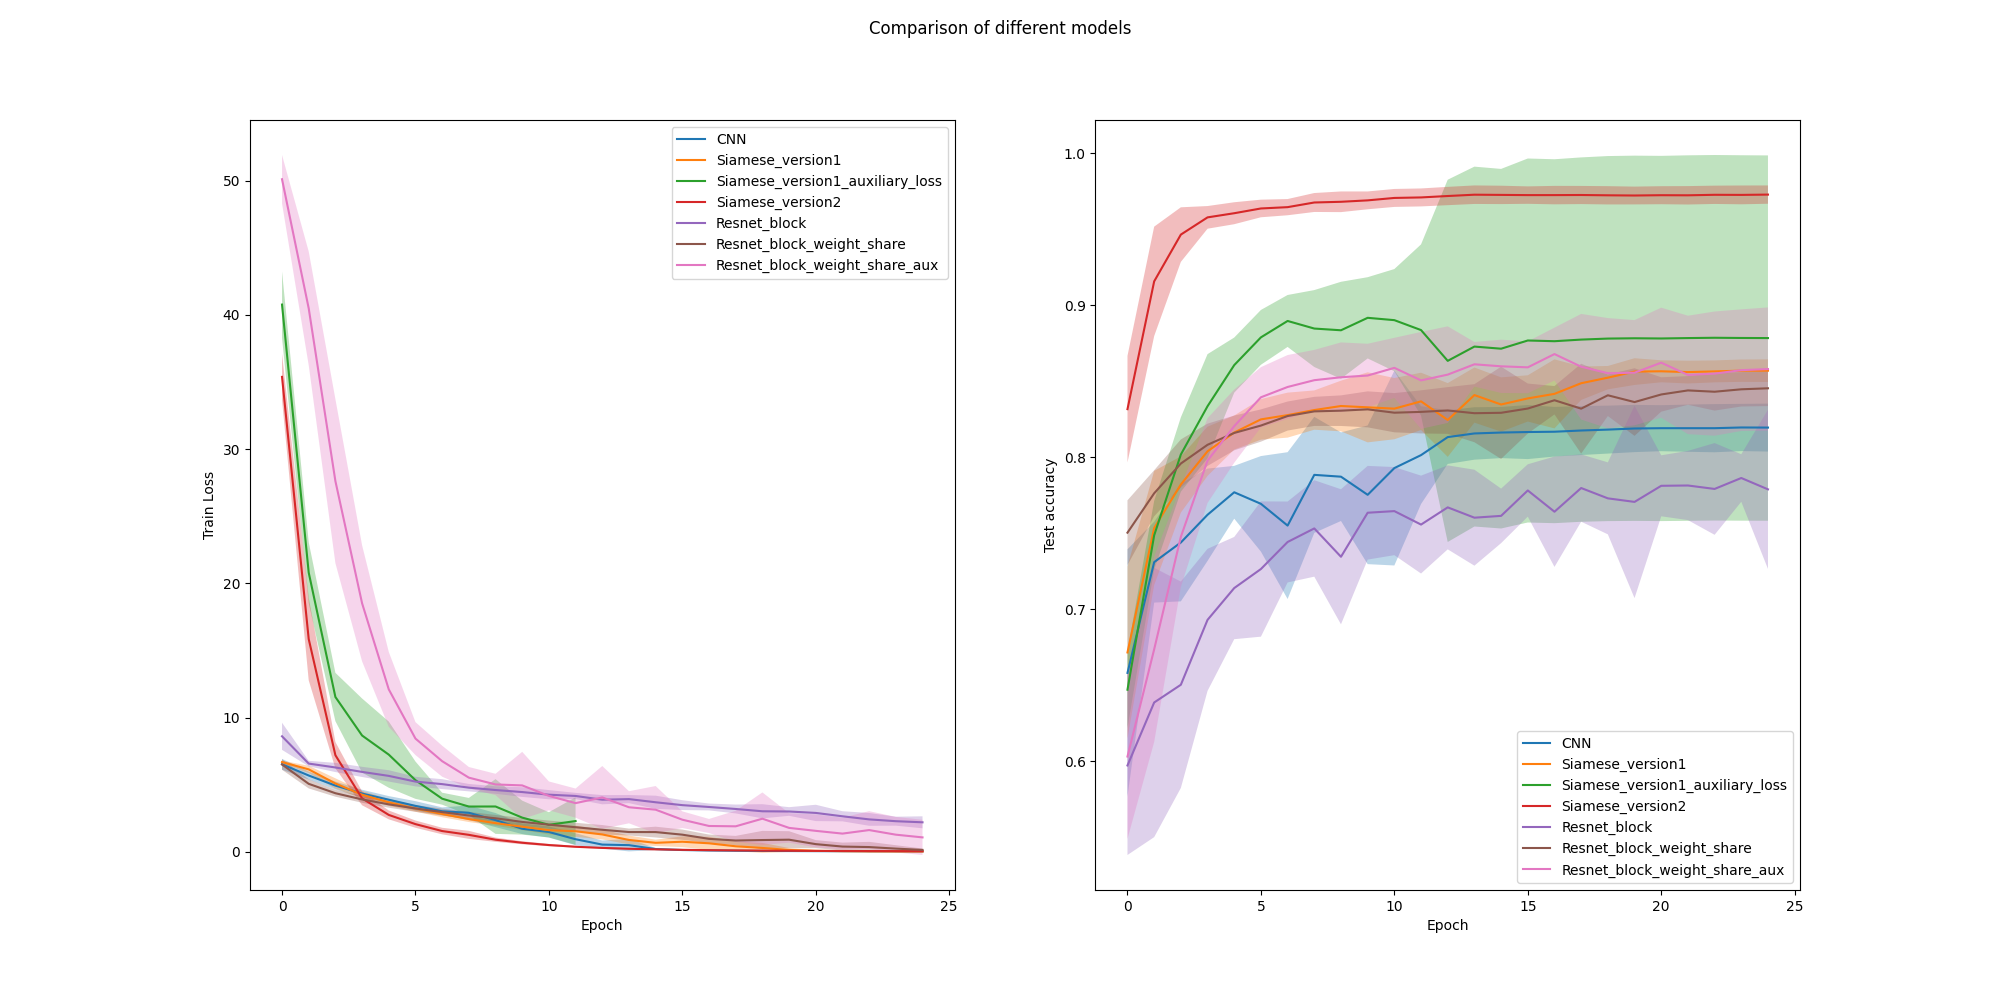
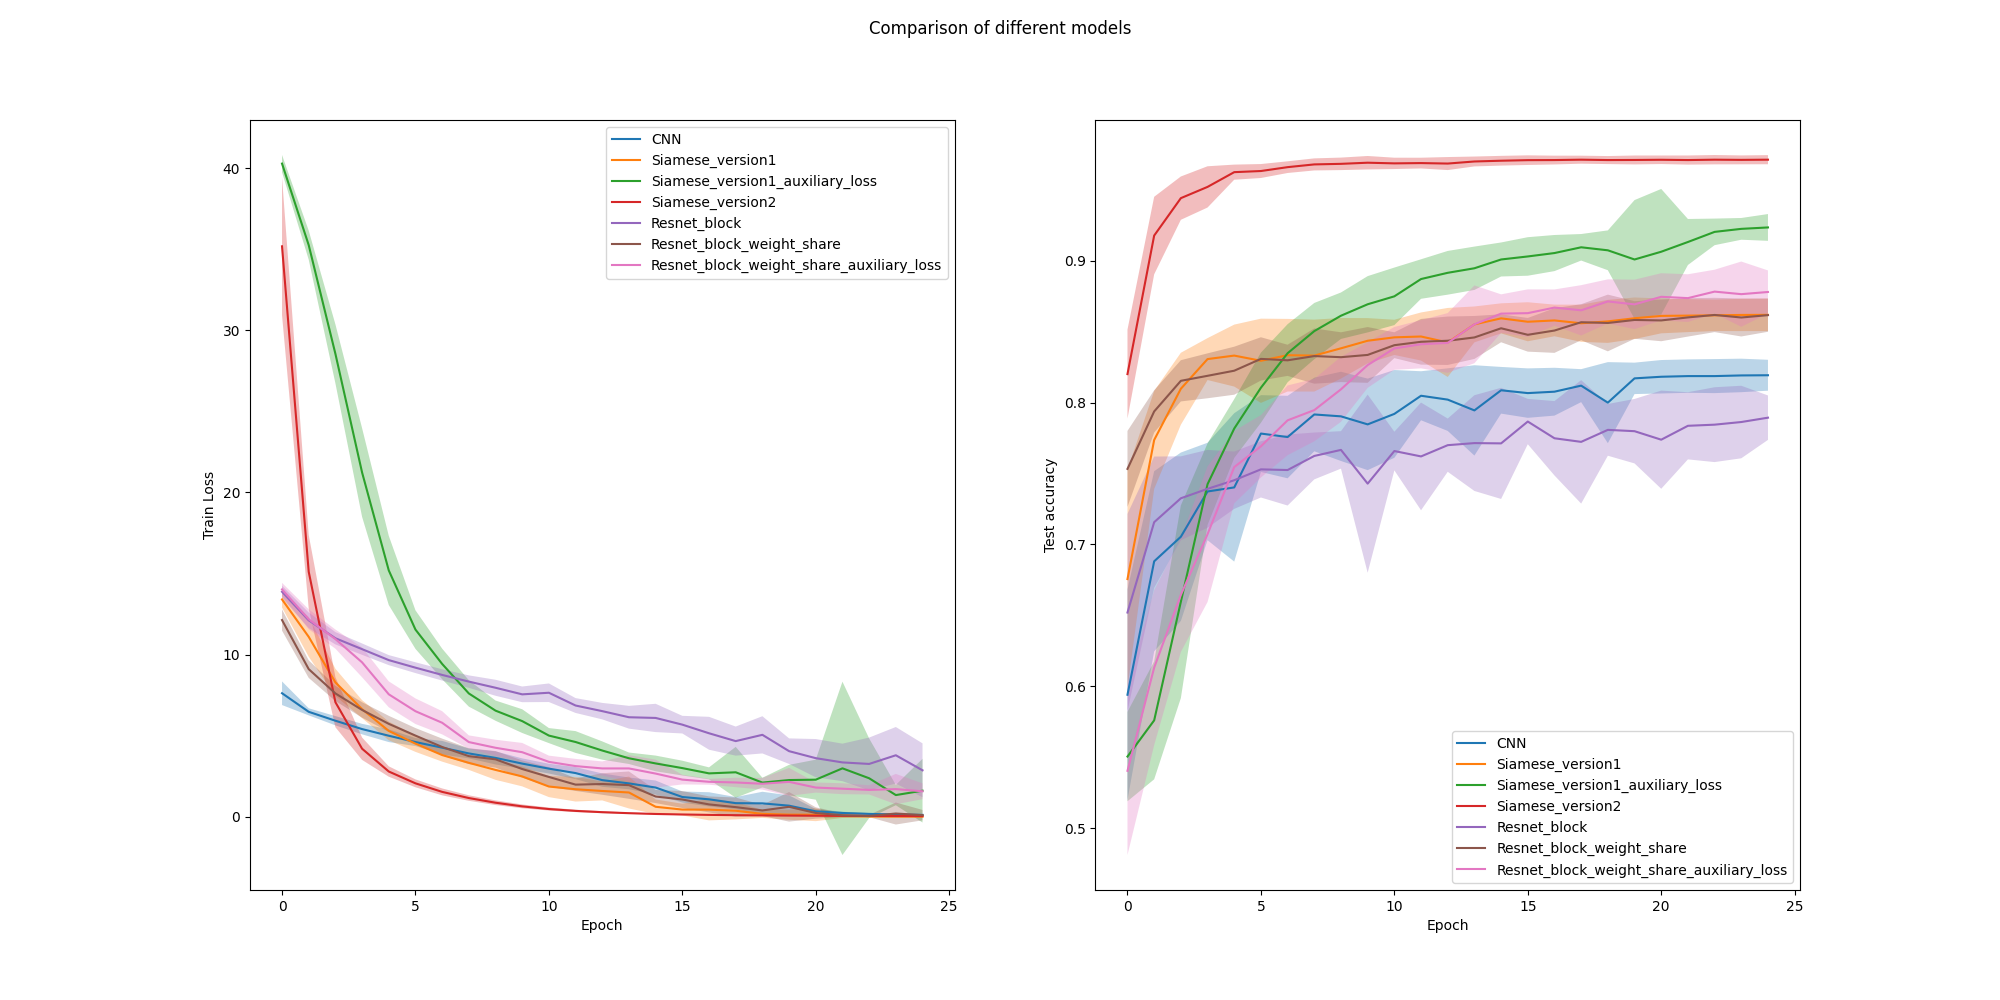
updated by Bohan

diff --git a/project1/test.py b/project1/test.py
@@ -19,7 +19,8 @@ def standardize(train_data, test_data):
     mean, std = train_data.mean(), train_data.std()
     return (train_data - mean) / std, (test_data - mean) / std
 
-def train_CNN(model, train_input, train_target, test_input, test_target, mini_batch_size, criterion, optimizer, nb_epochs, verbose=True):
+def train_CNN(model, train_input, train_target, test_input, test_target, mini_batch_size, criterion_input, optimizer, nb_epochs, verbose=True):
+  criterion = criterion_input
   loss_values = []
   acc_values = []
 
@@ -41,16 +42,11 @@ def train_CNN(model, train_input, train_target, test_input, test_target, mini_ba
       print('epoch {}:   loss: {}    acc: {}'.format(e, train_loss, acc))
       loss_values.append(train_loss)
       acc_values.append(acc.item())
-    
-    if (e > 5) and ((loss_values[-1] - loss_values[-2]) > 10.0):
-      loss_values = loss_values[:-1] + [loss_values[-2]] * (nb_epochs-len(loss_values[:-1]))
-      acc_values = acc_values[:-1] + [acc[-2]] * (nb_epochs-len(acc_values[:-1]))
-      break
-    
 
   return loss_values, acc_values
 
-def train_Siamese_net(model, train_input, train_target, train_classes, test_input, test_target, test_classes, mini_batch_size, criterion, optimizer, nb_epochs, loss_weight, version=1, verbose=True):
+def train_Siamese_net(model, train_input, train_target, train_classes, test_input, test_target, test_classes, mini_batch_size, criterion_input, optimizer, nb_epochs, loss_weight, version=1, verbose=True):
+  criterion = criterion_input
   loss_values = []
   acc_values = []
 
@@ -75,7 +71,7 @@ def train_Siamese_net(model, train_input, train_target, train_classes, test_inpu
       train_loss += total_loss.item()
 
       
-    
+
     if verbose and (version==1):
       acc = test_Siamese_net(model, test_input, test_target, version=1)
       print('epoch: {}   loss: {}   acc: {}'.format(e, train_loss, acc))
@@ -83,13 +79,9 @@ def train_Siamese_net(model, train_input, train_target, train_classes, test_inpu
       acc = test_Siamese_net(model, test_input, test_target, version=2)
       print('epoch: {}   loss: {}   acc: {}'.format(e, train_loss, acc))
     
-    loss_values.append(train_loss)
-    acc_values.append(acc.item())
-
-    if (e > 5) and ((loss_values[-1] - loss_values[-2]) > 10.0):
-      loss_values = loss_values[:-1] + [loss_values[-2]] * (nb_epochs-len(loss_values[:-1]))
-      acc_values = acc_values[:-1] + [acc_values[-2]] * (nb_epochs-len(acc_values[:-1]))
-      break
+    if verbose:
+      loss_values.append(train_loss)
+      acc_values.append(acc.item())
     
   return loss_values, acc_values
 
@@ -127,7 +119,7 @@ def main():
     test_accuracy = torch.zeros(n_run)
     cross_entropy = nn.CrossEntropyLoss()
 
-    model_names = ['CNN', 'Siamese_version1', 'Siamese_version1_auxiliary_loss', 'Siamese_version2', 'Resnet_block', 'Resnet_block_weight_share', 'Resnet_block_weight_share_aux']
+    model_names = ['CNN', 'Siamese_version1', 'Siamese_version1_auxiliary_loss', 'Siamese_version2', 'Resnet_block', 'Resnet_block_weight_share', 'Resnet_block_weight_share_auxiliary_loss']
 
     models_loss = []
     models_acc = []
@@ -160,12 +152,12 @@ def main():
           print(name)
           model = Siamese_net(in_channels=2, out_channels_1=16, out_channels_2=32, output_fc1=50, output_fc2=25, use_bn=True, version=1).to(device)
           optimizer = optim.SGD(model.parameters(), lr = 1e-1)
-          train_loss, test_acc = train_Siamese_net(model, train_input, train_class, train_digit, test_input, test_class, test_digit, 100, cross_entropy, optimizer, 25, [1,0], version=1)
+          train_loss, test_acc = train_Siamese_net(model, train_input, train_class, train_digit, test_input, test_class, test_digit, 50, cross_entropy, optimizer, 25, [1,0], version=1)
         elif 'Siamese_version1_auxiliary_loss' is name:
           print(name)
-          model = Siamese_net(in_channels=2, out_channels_1=16, out_channels_2=32, output_fc1=50, output_fc2=25, use_bn=True, version=1).to(device)
+          model = Siamese_net(in_channels=2, out_channels_1=16, out_channels_2=32, output_fc1=50, output_fc2=25, use_bn=False, version=1).to(device)
           optimizer = optim.SGD(model.parameters(), lr = 1e-1)
-          train_loss, test_acc = train_Siamese_net(model, train_input, train_class, train_digit, test_input, test_class, test_digit, 100, cross_entropy, optimizer, 25, [1,1], version=1)
+          train_loss, test_acc = train_Siamese_net(model, train_input, train_class, train_digit, test_input, test_class, test_digit, 100, cross_entropy, optimizer, 25, [1,0.75], version=1)
          
         elif 'Siamese_version2' is name:
           print(name)
@@ -175,20 +167,20 @@ def main():
           
         elif 'Resnet_block' is name:
           print(name)
-          model = Resnetblock(in_channels=2, out_channels_1=16, out_channels_2=16, output_fc=80, kernel_size=3, use_bn=True).to(device)
+          model = Resnetblock(in_channels=2, out_channels_1=16, out_channels_2=16, output_fc=80, kernel_size=3, use_bn=False).to(device)
           optimizer = optim.SGD(model.parameters(), lr = 1e-1)
-          train_loss, test_acc = train_CNN(model, train_input, train_class, test_input, test_class, 100, cross_entropy, optimizer, 25)
+          train_loss, test_acc = train_CNN(model, train_input, train_class, test_input, test_class, 50, cross_entropy, optimizer, 25)
         elif 'Resnet_block_weight_share' is name:
           print(name)
           model = Resnetblock_WS(in_channels=2, out_channels_1=16, out_channels_2=16, output_fc=80, kernel_size=3, use_bn=True).to(device)
           optimizer = optim.SGD(model.parameters(), lr = 1e-1)
-          train_loss, test_acc = train_Siamese_net(model, train_input, train_class, train_digit, test_input, test_class, test_digit, 100, cross_entropy, optimizer, 25, [1,0], version=1)
+          train_loss, test_acc = train_Siamese_net(model, train_input, train_class, train_digit, test_input, test_class, test_digit, 50, cross_entropy, optimizer, 25, [1,0], version=1)
          
-        elif 'Resnet_block_weight_share_aux' is name:
+        elif 'Resnet_block_weight_share_auxiliary_loss' is name:
           print(name)
           model =  Resnetblock_WS(in_channels=2, out_channels_1=16, out_channels_2=16, output_fc=80, kernel_size=3, use_bn=True).to(device)
           optimizer = optim.SGD(model.parameters(), lr = 1e-1)
-          train_loss, test_acc = train_Siamese_net(model, train_input, train_class, train_digit, test_input, test_class, test_digit, 100, cross_entropy, optimizer, 25, [1,1], version=1)
+          train_loss, test_acc = train_Siamese_net(model, train_input, train_class, train_digit, test_input, test_class, test_digit, 200, cross_entropy, optimizer, 25, [1,0.5], version=1)
 
         if i==0:
           total_params = sum(p.numel() for p in model.parameters())
@@ -200,11 +192,7 @@ def main():
 
       models_loss.append(runs_loss)
       models_acc.append(runs_accuracy)
-      
 
-      #mean = test_accuracy.mean().item()
-      #std = test_accuracy.std().item()
-      #print(f'Test accuracy: {mean:.2f} +- {std:.2f}')
     plot_train_loss_test_accuracy(models_loss, models_acc, model_names)
 
 

diff --git a/project1/cross_validate.py b/project1/cross_validate.py
@@ -14,7 +14,7 @@ from visualise import plot_train_loss_test_accuracy
 
 import matplotlib.pyplot as plt
 from dlc_practical_prologue import generate_pair_sets
-from train import standardize, train_CNN, train_Siamese_net, test_CNN, test_Siamese_net
+from test import standardize, train_CNN, train_Siamese_net, test_CNN, test_Siamese_net
 
 def cross_validate(model_name, model, train_input, train_target, train_classes, sup_param_range):
   cuda = torch.cuda.is_available()
@@ -32,14 +32,6 @@ def cross_validate(model_name, model, train_input, train_target, train_classes, 
     params_range = [(lr, mini_batch_size, use_bn, weight) for lr in lr_range for mini_batch_size in mini_batch_size_range for use_bn in use_bn_range for weight in weight_range]
   else:
     params_range = [(lr, mini_batch_size, use_bn) for lr in lr_range for mini_batch_size in mini_batch_size_range for use_bn in use_bn_range]
-
-  #if ('CNN' in model_name) or ('Resnet' in model_name):
-  ##  output_fc_range = sup_param_range['output_fc_range']
-  #  params_range = [(lr, mini_batch_size, out_channels_1, out_channels_2, output_fc, use_bn) for lr in lr_range for mini_batch_size in mini_batch_size_range for out_channels_1 in out_channels_1_range for out_channels_2 in out_channels_2_range for output_fc in output_fc_range for use_bn in use_bn_range]
-  #elif 'Siamese' in model_name:
-  #  output_fc1_range = sup_param_range['output_fc1_range']
-  #  output_fc1_range = sup_param_range['output_fc2_range']
-  #  params_range = [(lr, mini_batch_size, out_channels_1, out_channels_2, output_fc1, output_fc2, use_bn) for lr in lr_range for mini_batch_size in mini_batch_size_range for out_channels_1 in out_channels_1_range for out_channels_2 in out_channels_2_range for output_fc1 in output_fc1_range for output_fc2 in output_fc2_range for use_bn in use_bn_range]
 
   # use 5-fold cross validation
   n_fold = 5
@@ -71,16 +63,16 @@ def cross_validate(model_name, model, train_input, train_target, train_classes, 
       val_set_classes = train_classes[i*fold_size : (i+1)*fold_size]
 
       if ('weight_share' in model_name) or (model_name is 'Siamese_version1'):
-        train_Siamese_net(net, train_set, train_set_target, train_set_classes, 100, cross_entropy, optimizer, 25, [1,0], version=1, verbose=False)
+        train_Siamese_net(net, train_set, train_set_target, train_set_classes, None, None, None, 100, cross_entropy, optimizer, 25, [1,0], version=1, verbose=False)
         val_acc.append(test_Siamese_net(net, val_set, val_set_target, version=1))
       elif 'auxiliary' in model_name:
-        train_Siamese_net(net, train_set, train_set_target, train_set_classes, 100, cross_entropy, optimizer, 25, params[3], version=1, verbose=False)
+        train_Siamese_net(net, train_set, train_set_target, train_set_classes, None, None, None, 100, cross_entropy, optimizer, 25, params[3], version=1, verbose=False)
         val_acc.append(test_Siamese_net(net, val_set, val_set_target, version=1))
       elif model_name is 'Siamese_version2':
-        train_Siamese_net(net, train_set, train_set_target, train_set_classes, 100, cross_entropy, optimizer, 25, [0,1], version=2, verbose=False)
+        train_Siamese_net(net, train_set, train_set_target, train_set_classes, None, None, None, 100, cross_entropy, optimizer, 25, [0,1], version=2, verbose=False)
         val_acc.append(test_Siamese_net(net, val_set, val_set_target, version=2))
       else:
-        train_CNN(net, train_set, train_set_target, 100, cross_entropy, optimizer, 25, verbose=False)
+        train_CNN(net, train_set, train_set_target, None, None, 100, cross_entropy, optimizer, 25, verbose=False)
         val_acc.append(test_CNN(net, val_set, val_set_target))
 
     
@@ -88,9 +80,9 @@ def cross_validate(model_name, model, train_input, train_target, train_classes, 
 
     # print validation result for each combination of superparameters
     if 'auxiliary' in model_name:
-      print("for lr: {}, mini_batch_size : {}, use_bn:{}, weight : {}, validation accuracy is {}".format(params[0], params[1], params[2], params[3], float(sum(val_acc) / n_fold)))
+      print("lr: {}, mini_batch_size : {}, use_bn:{}, weight : {}, validation accuracy is {}".format(params[0], params[1], params[2], params[3], float(sum(val_acc) / n_fold)))
     else:
-      print("for lr: {}, mini_batch_size : {}, use_bn: {}, validation accuracy is {}".format(params[0], params[1], params[2], float(sum(val_acc) / n_fold)))
+      print("lr: {}, mini_batch_size : {}, use_bn: {}, validation accuracy is {}".format(params[0], params[1], params[2], float(sum(val_acc) / n_fold)))
         
     
 
@@ -101,9 +93,9 @@ def cross_validate(model_name, model, train_input, train_target, train_classes, 
 
   # print the optimal parameters found by cross validation
   if 'auxiliary' in model_name:
-      print("Best parameter: for lr: {}, mini_batch_size : {}, use_bn:{}, weight : {}, validation accuracy is {}".format(opt_param[0], opt_param[1], opt_param[2], opt_param[3], opt_val_acc.item()))
+      print("Best parameter: for {}  lr: {}, mini_batch_size : {}, use_bn:{}, weight : {}, validation accuracy is {}".format(model_name,opt_param[0], opt_param[1], opt_param[2], opt_param[3], opt_val_acc.item()))
   else:
-      print("Best parameter: for lr: {}, mini_batch_size : {}, use_bn: {}, validation accuracy is {}".format(opt_param[0], opt_param[1], opt_param[2], opt_val_acc.item()))
+      print("Best parameter: for {}  lr: {}, mini_batch_size : {}, use_bn: {}, validation accuracy is {}".format(model_name, opt_param[0], opt_param[1], opt_param[2], opt_val_acc.item()))
 
   return opt_param
 
@@ -128,7 +120,7 @@ def main():
     
     train_input, test_input = standardize(train_input, test_input)
 
-    model_names = ['CNN', 'Siamese_version1', 'Siamese_version1_auxiliary_loss', 'Siamese_version2', 'Resnet_block', 'Resnet_block_weight_share', 'Resnet_block_weight_share_aux']
+    model_names = ['CNN', 'Siamese_version1', 'Siamese_version1_auxiliary_loss', 'Siamese_version2', 'Resnet_block', 'Resnet_block_weight_share', 'Resnet_block_weight_share_auxiliary_loss']
     sup_param_cv_range = {'lr_range' : [1e-1, 1e-2, 1e-3, 1e-4],
                    'mini_batch_size_range':[50, 100, 200],
                    'use_bn':[True, False],

diff --git a/project1/model.py b/project1/model.py
@@ -15,11 +15,11 @@ class CNN(nn.Module):
         super(CNN,self).__init__()
         
         self.use_bn = use_bn
-        self.conv1 = nn.Conv2d(in_channels, out_channels_1, kernel_size=5)
-        self.conv2 = nn.Conv2d(out_channels_1, out_channels_2, kernel_size=5)
+        self.conv1 = nn.Conv2d(in_channels, out_channels_1, kernel_size=3)
+        self.conv2 = nn.Conv2d(out_channels_1, out_channels_2, kernel_size=3)
         self.active = nn.ReLU(inplace=True)
         self.pool = nn.MaxPool2d((2,2))
-        self.fc1 = nn.Linear(out_channels_2*3*3, output_fc)
+        self.fc1 = nn.Linear(out_channels_2*5*5, output_fc)
         self.fc2 = nn.Linear(output_fc, 2)
 
         
@@ -56,7 +56,6 @@ class Siamese_net(nn.Module):
         self.pool = nn.MaxPool2d((2,2))
         self.fc1 = nn.Linear(out_channels_2*5*5, output_fc1)
         self.fc2 = nn.Linear(output_fc1, 10)
-        #self.fc3 = nn.Linear(20, 2)
         self.fc3 = nn.Linear(20, output_fc2)
         self.fc4 = nn.Linear(output_fc2, 2)
 
@@ -89,14 +88,13 @@ class Siamese_net(nn.Module):
         
         if self.version == 1:
           out = torch.cat((x1_class, x2_class), dim=1)
-          out = self.active(self.fc3(out))
+          out = self.active(self.fc3(self.active(out)))
           out = self.fc4(out)
         elif self.version == 2:
           _, predicted_digit1 = torch.max(x1_class, 1)
           _, predicted_digit2 = torch.max(x2_class, 1)
           out = (predicted_digit1 <= predicted_digit2).float()
-          #print(out.size())
-        #out = self.fc3(out)
+
         return out, (x1_class, x2_class)
 
 # No weight sharing. No auxiliary loss.
@@ -187,7 +185,7 @@ class Resnetblock_WS(nn.Module):
         x2_class = self.one_branch(x2)
         
         out = torch.cat((x1_class, x2_class), dim=1)
-        out = self.fc3(out)
+        out = self.fc3(self.active(out))
 
         return out, (x1_class, x2_class)
 
